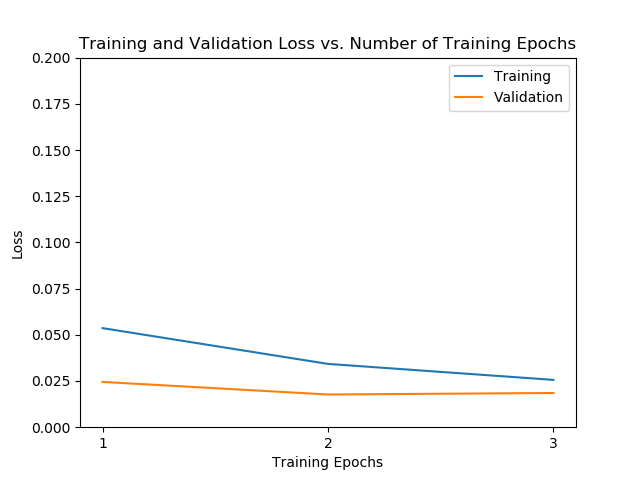
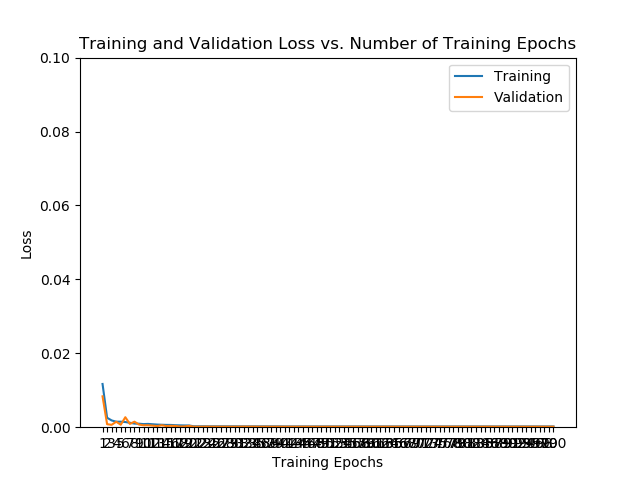
add eval functions

diff --git a/lego_nn.py b/lego_nn.py
@@ -20,7 +20,7 @@ import warnings
 warnings.filterwarnings("ignore")
 
 num_outputs = 4
-num_epochs = 10
+num_epochs = 100
 PATH = "lego.pth"
 # Helper function to show a batch
 def show_landmarks_batch(sample_batched):
@@ -56,6 +56,7 @@ def train_model(model, dataloaders, dataset_sizes, criterion, optimizer, schedul
                 scheduler.step()
                 model.train()  # Set model to training mode
             else:
+                model.train(False)
                 model.eval()   # Set model to evaluate mode
 
             running_loss = 0.0
@@ -84,8 +85,10 @@ def train_model(model, dataloaders, dataset_sizes, criterion, optimizer, schedul
 
             epoch_loss = running_loss / dataset_sizes[phase]
 
-            print('{} Loss: {:.4f}'.format(phase, epoch_loss))
-
+            print('{} Loss: {:.8f}'.format(phase, epoch_loss))
+            time_elapsed = time.time() - since
+            print('Training time in {:.0f}m {:.0f}s'.format(
+                time_elapsed // 60, time_elapsed % 60))
             # deep copy the model
             if phase == 'val' and epoch_loss < best_loss:
                 best_loss = epoch_loss
@@ -95,12 +98,15 @@ def train_model(model, dataloaders, dataset_sizes, criterion, optimizer, schedul
             if phase == 'val':
                 val_loss_history.append(epoch_loss)
 
+            if epoch % 20 == 0 and epoch > 0:
+                torch.save(model, 'test_' + str(epoch) + '.pth')
+
         print()
 
     time_elapsed = time.time() - since
     print('Training complete in {:.0f}m {:.0f}s'.format(
         time_elapsed // 60, time_elapsed % 60))
-    print('Best val Loss: {:4f}'.format(best_loss))
+    print('Best val Loss: {:8f}'.format(best_loss))
 
     # load best model weights
     model.load_state_dict(best_model_wts)
@@ -111,17 +117,14 @@ if __name__ == "__main__":
     # Just normalization for validation
     data_transforms = {
         'train': transforms.Compose([
-            transforms.CenterCrop(224),
             transforms.ToTensor(),
             transforms.Normalize([0.485, 0.456, 0.406], [0.229, 0.224, 0.225])
         ]),
         'val': transforms.Compose([
-            transforms.CenterCrop(224),
             transforms.ToTensor(),
             transforms.Normalize([0.485, 0.456, 0.406], [0.229, 0.224, 0.225])
         ]),
         'test': transforms.Compose([
-            transforms.CenterCrop(224),
             transforms.ToTensor(),
             transforms.Normalize([0.485, 0.456, 0.406], [0.229, 0.224, 0.225])
         ])
@@ -131,16 +134,16 @@ if __name__ == "__main__":
     image_datasets = {x: MyDataset(x + '.csv', os.path.join(data_dir, x),
                                               data_transforms[x])
                       for x in ['train', 'val', 'test']}
-    dataset_loaders = {x: torch.utils.data.DataLoader(image_datasets[x], batch_size=4,
+    dataset_loaders = {x: torch.utils.data.DataLoader(image_datasets[x], batch_size=200,
                                                   shuffle=True, num_workers=4)
                    for x in ['train', 'val']}
     dataset_loaders['test'] = torch.utils.data.DataLoader(image_datasets['test'], batch_size=1,
                                                   shuffle=False, num_workers=4)
 
     dataset_sizes = {x: len(image_datasets[x]) for x in ['train', 'val']}
-    #print(dataset_sizes)
+    print(dataset_sizes)
     # GPU mode
-    device = torch.device("cuda:1" if torch.cuda.is_available() else "cpu")
+    device = torch.device("cuda:4" if torch.cuda.is_available() else "cpu")
 
     """
     # Get a batch of training data
@@ -162,10 +165,10 @@ if __name__ == "__main__":
     criterion = nn.MSELoss()
 
     # Observe that all parameters are being optimized
-    optimizer_ft = optim.SGD(model_ft.parameters(), lr=0.001, momentum=0.9)
+    optimizer_ft = optim.SGD(model_ft.parameters(), lr=0.01, momentum=0.9)
 
     # Decay LR by a factor of 0.1 every 7 epochs
-    exp_lr_scheduler = lr_scheduler.StepLR(optimizer_ft, step_size=7, gamma=0.1)
+    exp_lr_scheduler = lr_scheduler.StepLR(optimizer_ft, step_size=20, gamma=0.1)
     # Train and evaluate
     model_ft, train_loss_hist, val_loss_hist = train_model(model_ft, dataset_loaders, dataset_sizes, criterion, optimizer_ft, exp_lr_scheduler,
                            device, num_epochs)
@@ -189,19 +192,6 @@ if __name__ == "__main__":
     # save model
     torch.save(model_ft, PATH)
 
-    # test model
-    model_ft.eval()
-    for i_batch, test_batch in enumerate(dataset_loaders['test']):
-        inputs = test_batch['input'].to(device)
-        labels = test_batch['output'].to(device)
-        print(i_batch, inputs.size(),
-              labels.size())
-        outputs = model_ft(inputs)
-        print("labels is {}, and outputs is {}".format(labels, outputs))
-        loss = criterion(outputs.float(), labels.float())
-        print("loss is {}".format(loss))
-        if i_batch == 3:
-            break
 
 
 

diff --git a/lego_learning_curve.py b/lego_learning_curve.py
@@ -1,0 +1,61 @@
+from __future__ import print_function, division
+import os
+import torch
+import torch.nn as nn
+import pandas as pd
+from skimage import io, transform
+import numpy as np
+import matplotlib.pyplot as plt
+import torch.optim as optim
+from torch.optim import lr_scheduler
+import time
+import copy
+plt.switch_backend('agg')
+from torch.utils.data import Dataset, DataLoader
+from torchvision import transforms, utils, datasets, models
+from lego_processing_data import MyDataset
+from PIL import Image
+# Ignore warnings
+import warnings
+warnings.filterwarnings("ignore")
+
+num_outputs = 4
+num_epochs = 60
+PATH = "lego.pth"
+
+if __name__ == "__main__":
+    # plot loss history
+    train_loss_hist = [0.0117, 0.0026, 0.0018, 0.0015, 0.0015, 0.0014, 0.0012, 0.0010, 0.0009, 0.0008, 0.0009, 0.0008,
+                       0.0007, 0.0007, 0.0006, 0.0006, 0.0005, 0.0005, 0.0005, 0.0005, 0.0002, 0.0002, 0.0002, 0.0002,
+                       0.0002, 0.0002, 0.0002, 0.0002, 0.0002, 0.0002, 0.0002, 0.0002, 0.0002, 0.0002, 0.0002, 0.0002,
+                       0.0002, 0.0002, 0.0002, 0.0002, 0.0002, 0.0002, 0.0002, 0.0002, 0.0002, 0.0002, 0.0002, 0.0002,
+                       0.0002, 0.0002, 0.0002, 0.0002, 0.0002, 0.0002, 0.0002, 0.0002, 0.0002, 0.0002, 0.0002, 0.0002
+                       ]
+    val_loss_hist = [0.0084, 0.0008, 0.0006, 0.0015, 0.0007, 0.0027, 0.0009, 0.0015, 0.0007, 0.0005, 0.0005, 0.0004,
+                     0.0003, 0.0005, 0.0003, 0.0004, 0.0003, 0.0002, 0.0002, 0.0004, 0.0001, 0.0001, 0.0001, 0.0001,
+                     0.0001, 0.0001, 0.0001, 0.0001, 0.0001, 0.0001, 0.0001, 0.0001, 0.0001, 0.0001, 0.0001, 0.0001,
+                     0.0001, 0.0001, 0.0001, 0.0001, 0.0001, 0.0001, 0.0001, 0.0001, 0.0001, 0.0001, 0.0001, 0.0001,
+                     0.0001, 0.0001, 0.0001, 0.0001, 0.0001, 0.0001, 0.0001, 0.0001, 0.0001, 0.0001, 0.0001, 0.0001
+                     ]
+    thist = []
+    vhist = []
+
+    thist = [h * 100 for h in train_loss_hist]
+    vhist = [h * 100 for h in val_loss_hist]
+    plt.title("Training and Validation Loss vs. Number of Training Epochs")
+    plt.xlabel("Training Epochs")
+    plt.ylabel("Loss")
+    plt.plot(range(1, num_epochs + 1), thist, label="Training")
+    plt.plot(range(1, num_epochs + 1), vhist, label="Validation")
+    plt.ylim((0, 10.0))
+    # plt.xticks(np.arange(1, num_epochs + 1, 1.0))
+    plt.legend()
+    plt.savefig("learning_curve.png")
+    # plt.show()
+
+
+
+
+
+
+

diff --git a/lego_eval.py b/lego_eval.py
@@ -14,6 +14,7 @@ plt.switch_backend('agg')
 from torch.utils.data import Dataset, DataLoader
 from torchvision import transforms, utils, datasets, models
 from lego_processing_data import MyDataset
+from lego_processing_test_data import MyTestDataset
 from PIL import Image
 # Ignore warnings
 import warnings
@@ -25,14 +26,13 @@ PATH = "lego.pth"
 
 if __name__ == "__main__":
     # Define transforms
-    transformations = transforms.Compose([transforms.CenterCrop(224),
-                                          transforms.ToTensor(),
+    transformations = transforms.Compose([transforms.ToTensor(),
                                           transforms.Normalize([0.485, 0.456, 0.406], [0.229, 0.224, 0.225])
                                           ])
     # Define custom dataset
-    test_data = MyDataset("test.csv", "data/test", transformations)
+    test_data = MyTestDataset("real.csv", "data/real_2", transformations)
     # Define data loader
-    test_dataset_loader = torch.utils.data.DataLoader(dataset=test_data, batch_size=1, shuffle=False, num_workers=4)
+    test_dataset_loader = torch.utils.data.DataLoader(dataset=test_data, batch_size=1, shuffle=False)
     # GPU mode
     device = torch.device("cuda:1" if torch.cuda.is_available() else "cpu")
     criterion = nn.MSELoss()
@@ -43,15 +43,22 @@ if __name__ == "__main__":
     model.eval()
     for i_batch, test_batch in enumerate(test_dataset_loader):
         inputs = test_batch['input'].to(device)
-        labels = test_batch['output'].to(device)
-        print(i_batch, inputs.size(),
-              labels.size())
+        # labels = test_batch['output'].to(device)
+        print(i_batch, inputs.size())
+        outputs = model(inputs)
+        print("outputs is {}".format(outputs))
+        """
+        loss = criterion(outputs.float(), labels.float())
+        print("loss is {}".format(loss))
+        print("------------Try again---------------")
         outputs = model(inputs)
         print("labels is {}, and outputs is {}".format(labels, outputs))
         loss = criterion(outputs.float(), labels.float())
         print("loss is {}".format(loss))
-        if i_batch == 3:
+        if i_batch == 1:
             break
+        """
+
 
 
 

diff --git a/lego_processing_test_data.py b/lego_processing_test_data.py
@@ -1,0 +1,50 @@
+from __future__ import print_function, division
+import os
+import torch
+import pandas as pd
+from skimage import io, transform
+import numpy as np
+import matplotlib.pyplot as plt
+plt.switch_backend('agg')
+from torch.utils.data import Dataset, DataLoader
+from torchvision import transforms, utils, datasets
+from PIL import Image
+# Ignore warnings
+import warnings
+warnings.filterwarnings("ignore")
+
+
+class MyTestDataset(Dataset):
+    """Face Landmarks dataset."""
+
+    def __init__(self, csv_file, root_dir, transform=None):
+        """
+        Args:
+            csv_file (string): Path to the csv file with annotations.
+            root_dir (string): Directory with all the images.
+            transform (callable, optional): Optional transform to be applied
+                on a sample.
+        """
+        self.data_frames = pd.read_csv(csv_file)
+        self.root_dir = root_dir
+        self.transform = transform
+
+    def __len__(self):
+        return len(self.data_frames)
+
+    def __getitem__(self, idx):
+        img_name = os.path.join(self.root_dir,
+                                self.data_frames.iloc[idx, 0])
+        print(img_name)
+        #image = io.imread(img_name)
+        image = Image.open(img_name)
+        # parameters = self.data_frames.iloc[idx, 1:].as_matrix()
+        # parameters = parameters.astype('float').reshape(1, -1)
+        # parameters = parameters.astype('float')
+        if self.transform:
+            image = self.transform(image)
+            # parameters = torch.from_numpy(parameters)
+        sample = {'input': image}
+        return sample
+
+
